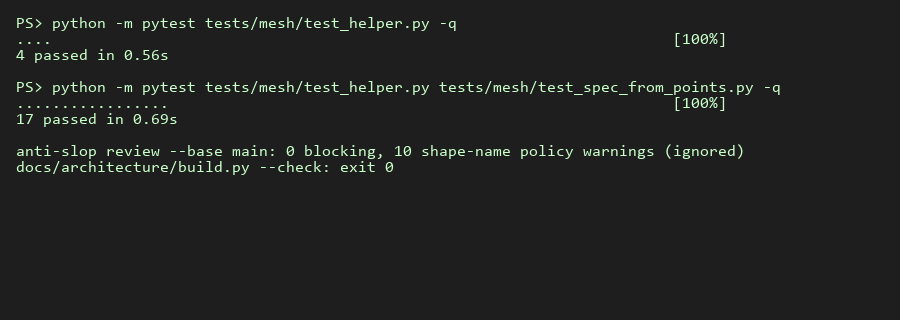
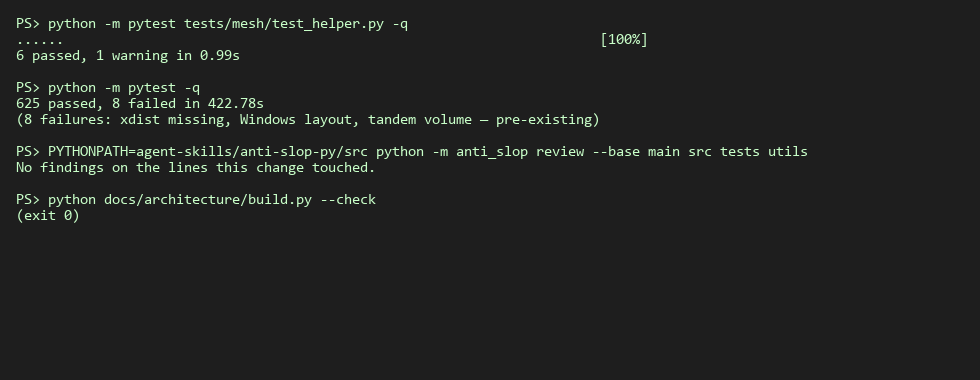
test: pin non-right-angle rotate_points and antiparallel NaN

diff --git a/tests/mesh/test_helper.py b/tests/mesh/test_helper.py
@@ -36,6 +36,21 @@ def test_a_point_on_v1_lands_on_v2_after_a_right_angle_realign() -> None:
     assert result == pytest.approx(np.array([[0.0, 0.0, 1.0], [0.0, 1.0, 0.0]]))
 
 
+def test_a_forty_five_degree_realign_keeps_the_cosine_terms() -> None:
+    """Check that aligning [1,0,1] onto +Z sends that tip to [0,0,√2] and leaves +Y alone.
+
+    Fails if either point moves otherwise. A ninety-degree-only suite lets both cosine terms of
+    Rodrigues vanish, so a plan whose central axis is only slightly off +Z would not be caught
+    here even though that is the usual DICOM case.
+    """
+    points = np.array([[1.0, 0.0, 1.0], [0.0, 1.0, 0.0]])
+    root_two = float(np.sqrt(2.0))
+
+    result = rotate_points(points, np.array([1.0, 0.0, 1.0]), np.array([0.0, 0.0, 1.0]))
+
+    assert result == pytest.approx(np.array([[0.0, 0.0, root_two], [0.0, 1.0, 0.0]]))
+
+
 def test_a_cloud_keeps_pairwise_distances_when_the_axis_turns_ninety_degrees() -> None:
     """Check that three points keep every pairwise distance after a +Y to +Z realign.
 
@@ -63,8 +78,9 @@ def test_a_cloud_keeps_pairwise_distances_when_the_axis_turns_ninety_degrees() -
 def test_a_single_point_vector_returns_three_coordinates_not_a_one_row_matrix() -> None:
     """Check that an input with np.size 3 returns a length-3 vector after a +X to +Z realign.
 
-    Fails if the result is shape (1, 3) or the values are not [0, 0, 1]. The import path sometimes
-    hands a lone base point through this branch, and a nested row breaks the later base subtract.
+    Fails if the result is shape (1, 3) or the values are not [0, 0, 1]. Every import rotates the
+    cylinder base through this flat-vector branch, so the result must stay a length-3 vector like
+    the base it replaces.
     """
     point = np.array([1.0, 0.0, 0.0])
 
@@ -72,3 +88,16 @@ def test_a_single_point_vector_returns_three_coordinates_not_a_one_row_matrix() 
 
     assert np.shape(result) == (3,)
     assert result == pytest.approx(np.array([0.0, 0.0, 1.0]))
+
+
+def test_antiparallel_axes_currently_return_nan_coordinates() -> None:
+    """Check that aligning +Z onto -Z yields NaN coordinates for every point (current behaviour).
+
+    Fails if the result is finite. The early return only catches identical axes; a tip exactly
+    below its base along -Z would poison every needle with NaN and print a broken cylinder (§7.30).
+    """
+    points = np.array([[1.0, 0.0, 0.0], [0.0, 1.0, 0.0]])
+
+    result = rotate_points(points, np.array([0.0, 0.0, -5.0]), np.array([0.0, 0.0, 1.0]))
+
+    assert np.isnan(result).all()

diff --git a/docs/project/COSC499-TEAM10-PROJECT-DOCS.md b/docs/project/COSC499-TEAM10-PROJECT-DOCS.md
@@ -2771,6 +2771,15 @@ base goes through as a flat length-3 vector, so the live path does not hit this.
 caller that wraps one point as `(1, 3)` will crash. Not fixed; the new tests use two or more
 rows, or a flat `(3,)` vector, on purpose.
 
+### 7.30 MEDIUM — `rotate_points` returns NaN when the axes are exactly opposite
+
+*Verified* 2026-11-20 on Windows (and reproduced by the #279 review on macOS). The early return
+only catches `v1 == v2`. When `v1` is antiparallel to `v2`, the cross-product length is 0, so
+`cross_v1v2 / cross_norm` fills the output with NaN and no exception is raised. A central axis
+whose tip lies exactly below its base along −Z would turn every needle into NaN. Unlikely in
+patient coordinates, but silent. Not fixed; `tests/mesh/test_helper.py` pins the current NaN
+result so a future refusal or 180° handling is deliberate.
+
 ## 8. Testing
 
 ### 8.1 Policy
@@ -2926,7 +2935,7 @@ Repository tooling tests, first added 2026-09-30, live in
 | `mesh/test_channel_reuse.py` | `rounded_channel` builds identical inputs again instead of copying the kept solid, gives two calls the same shape object or a copy with other geometry, reuses a solid after the points, offset, diameter, deadspace or either threading setting changed, keeps a build that opened the error dialog so a reimport would not report it, or its store keeps more solids than its capacity or drops the one used last (§5.4) |
 | `mesh/test_cylinder.py` | the default cylinder's volume or extents change, a disabled notch is still fused on, the angle setting is ignored, or the notch height ignores its setting or the collar cap, or a flat tip still builds the dome (§5.4) |
 | `mesh/test_spec_from_points.py` | a vertical needle gets a bend or a start off the base, a tilt above a vertical run does not give that run as Length 1, Phi is negative or wrong in a quadrant, a needle ending on or crossing the base does not start at the base or gets a Length 1 of 0, a curved path moves the tip, Theta passes the form limit, or no points, one point, NaN or infinity are accepted, or a refusal has a colon or dash (§5.4) |
-| `mesh/test_helper.py` | identical axes move a cloud, a +X tip does not land on +Z after a +X to +Z realign, pairwise distances change under a ninety-degree turn, or a flat length-3 point returns a one-row matrix instead of three coordinates (§5.4, §7.29) |
+| `mesh/test_helper.py` | identical axes move a cloud, a +X tip does not land on +Z after a +X to +Z realign, a 45° realign misses `[0,0,√2]`, pairwise distances change under a ninety-degree turn, a flat length-3 point returns a one-row matrix, or antiparallel axes stop returning all-NaN (§5.4, §7.29, §7.30) |
 | `mesh/test_custom_needle_points.py` | a custom needle's points are not tissue end first at Length 1 plus Length 2, or a length of 0 or less, NaN, infinity, a Length 1 over the cylinder or a start 13.6 mm out, a Theta of 90 or below 0, or a bend with no radius is built, or a refusal has a colon or dash, or a start 13.5 mm out or a Length 1 of 100 mm is refused, or a bend's tip, its arc points or its straight case at Theta 0 are wrong (§5.4) |
 | `mesh/test_tandem.py` | the default dome tandem cut-out's volume changes, or a flat-tipped 90 mm cylinder's tandem cut-out is trimmed inside the cylinder (§7.11). Or `tandem_from_design` drops or swaps a value, or `tandem_builds` calls a 30° bend at 60 or 170 mm buildable on a 160 by 30 mm cylinder, or refuses one at 120 mm or a straight one at 60 mm (§7.21) |
 | `pdf/test_template_reference.py` | an interstitial length past a dome, past a flat top, or out of a flat-tipped cylinder's wall near its top differs from the hand-worked length, or the notch is drawn in the wrong place, size or turn, or drawn when off, or the labels overlap it, or the cylinder table misreports a value (§5.8) |
@@ -3187,11 +3196,10 @@ In rough order — all are pure functions with no Qt or OCC dependency
 and can be tested without launching the app:
 
 1. ~~`helper.rotate_points()`~~ — covered by `tests/mesh/test_helper.py` (issue #278). The
-   `(1, 3)` trap stays open as §7.29.
+   `(1, 3)` trap stays open as §7.29; antiparallel NaN as §7.30.
 2. `settings/load.load_config_file()` and `checkValuesExist()` — pure dict logic, and the
    round-trip bug in §7.1 would have been caught by a single test asserting
-   `set(getCurrentValues()) == set(DEFAULT_CONFIG_VALUES)`. (Collar round-trip is already
-   pinned from the Cylinder view; the load-file edges may still need more cases.)
+   `set(getCurrentValues()) == set(DEFAULT_CONFIG_VALUES)`.
 3. `channel.remove_identical_points()` / `remove_collinear_points()` / `apply_deadspace_to_points()`.
 4. `template_reference.extract_points_from_channels2()` — the `z=0` normalisation, with its
    three branches (crosses / stops short / lands exactly).

diff --git a/docs/logs/ehsan/week-11.md b/docs/logs/ehsan/week-11.md
@@ -7,11 +7,11 @@ _Individual log. One section per PR merged this week, each a copy of that PR's P
 
 #### Testing receipts
 
-- The functionality works correctly because the happy path tests involving **`test_identical_axes_leave_every_point_unchanged`, `test_a_point_on_v1_lands_on_v2_after_a_right_angle_realign`, `test_a_cloud_keeps_pairwise_distances_when_the_axis_turns_ninety_degrees`, `test_a_single_point_vector_returns_three_coordinates_not_a_one_row_matrix` (4 passed)** passed.
-- I wrote tests to cover abnormal situations involving **a flat length-3 vector taking the single-point branch** and they passed.
-- I checked that these negative cases involving **identical axes returning zeros instead of the cloud** failed as expected after a deliberate break of the early return.
-- Among these tests, **all four** are unit tests and integration tests are not required because **`rotate_points` is pure numpy with no Qt or OCC**.
+- The functionality works correctly because the happy path tests involving **`test_identical_axes_leave_every_point_unchanged`, `test_a_point_on_v1_lands_on_v2_after_a_right_angle_realign`, `test_a_forty_five_degree_realign_keeps_the_cosine_terms`, `test_a_cloud_keeps_pairwise_distances_when_the_axis_turns_ninety_degrees`, `test_a_single_point_vector_returns_three_coordinates_not_a_one_row_matrix`, `test_antiparallel_axes_currently_return_nan_coordinates` (6 passed)** passed.
+- I wrote tests to cover abnormal situations involving **a flat length-3 vector taking the single-point branch, and antiparallel axes returning NaN** and they passed.
+- I checked that these negative cases involving **identical axes returning zeros, and both Rodrigues cosine-term mutations from the #279 review** failed as expected after deliberate breaks.
+- Among these tests, **all six** are unit tests and integration tests are not required because **`rotate_points` is pure numpy with no Qt or OCC**.
 - These tests are included in the directory **`tests/mesh/`**.
-- This new test PR did not break anything else in the system because **`python -m pytest tests/mesh/test_helper.py tests/mesh/test_spec_from_points.py -q` is 17 passed, anti-slop had 0 blocking findings, and `python docs/architecture/build.py --check` exited 0**.
+- This new test PR did not break anything else in the system because **`python -m pytest -q` on this branch tip is 625 passed, 8 failed (known Windows layout / missing xdist / tandem volume; not this file). `tests/mesh/test_helper.py` is 6 passed. anti-slop had 0 blocking findings on touched lines, and `python docs/architecture/build.py --check` exited 0**.
   - ![pytest receipt for rotate_points](https://raw.githubusercontent.com/COSC-499-W2026/capstone-project-team-10/a22d8d1b982432f4d8c5fb54989cb1317d5d547e/docs/logs/ehsan/screenshots/week-11/pr-rotate-points-pytest.png)
 - Not applicable: **generated-test review (hand-written)**.

diff --git a/tests/README.md b/tests/README.md
@@ -328,7 +328,7 @@ ran the full isolated suite: **290 passed in 286.76s on the surface architecture
 list of highest-value targets. All are pure functions needing neither Qt nor OpenCASCADE:
 
 1. ~~`helper.rotate_points()`~~ — covered by `mesh/test_helper.py`. A one-row `(1, 3)` array
-   still hits the length-3 branch and raises (§7.29 of the project docs).
+   still hits the length-3 branch and raises (§7.29); antiparallel axes still return NaN (§7.30).
 2. `settings/load.py` — pure dict logic, and the collar round-trip bug in §7.1 of the project
    docs would have been caught by a single assertion here.
 3. The point cleanup functions in `mesh/channel.py`.
